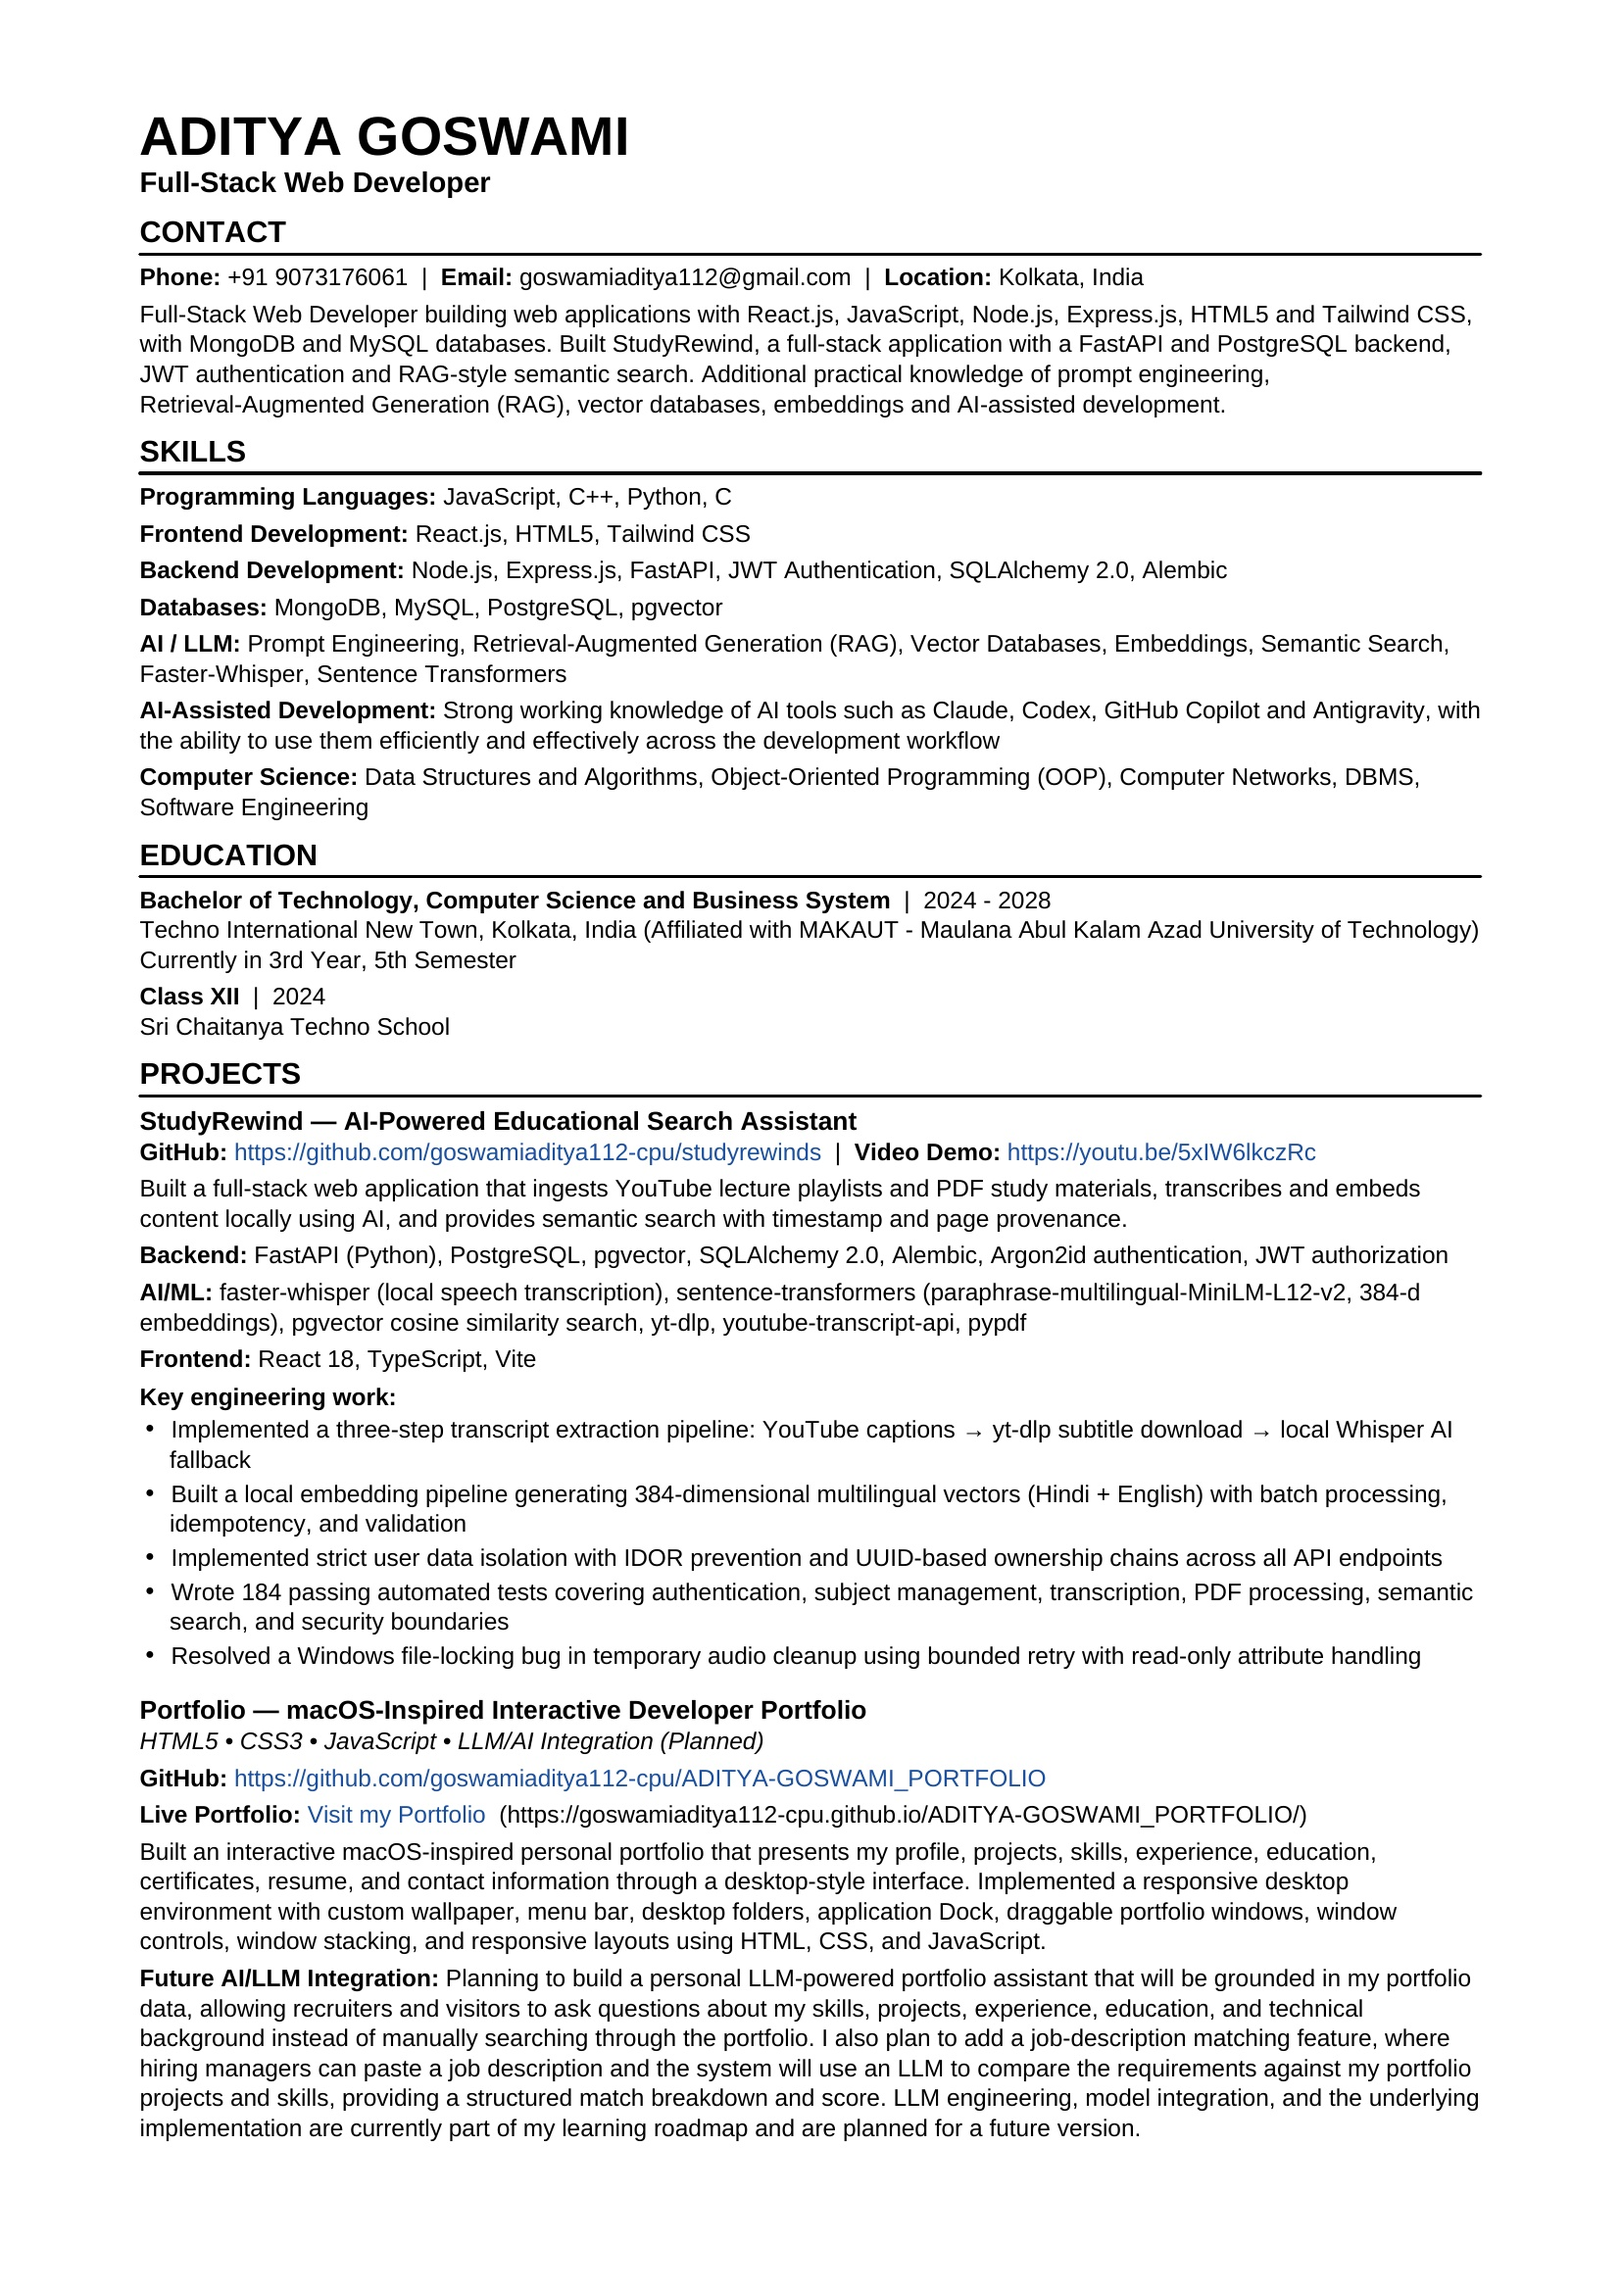
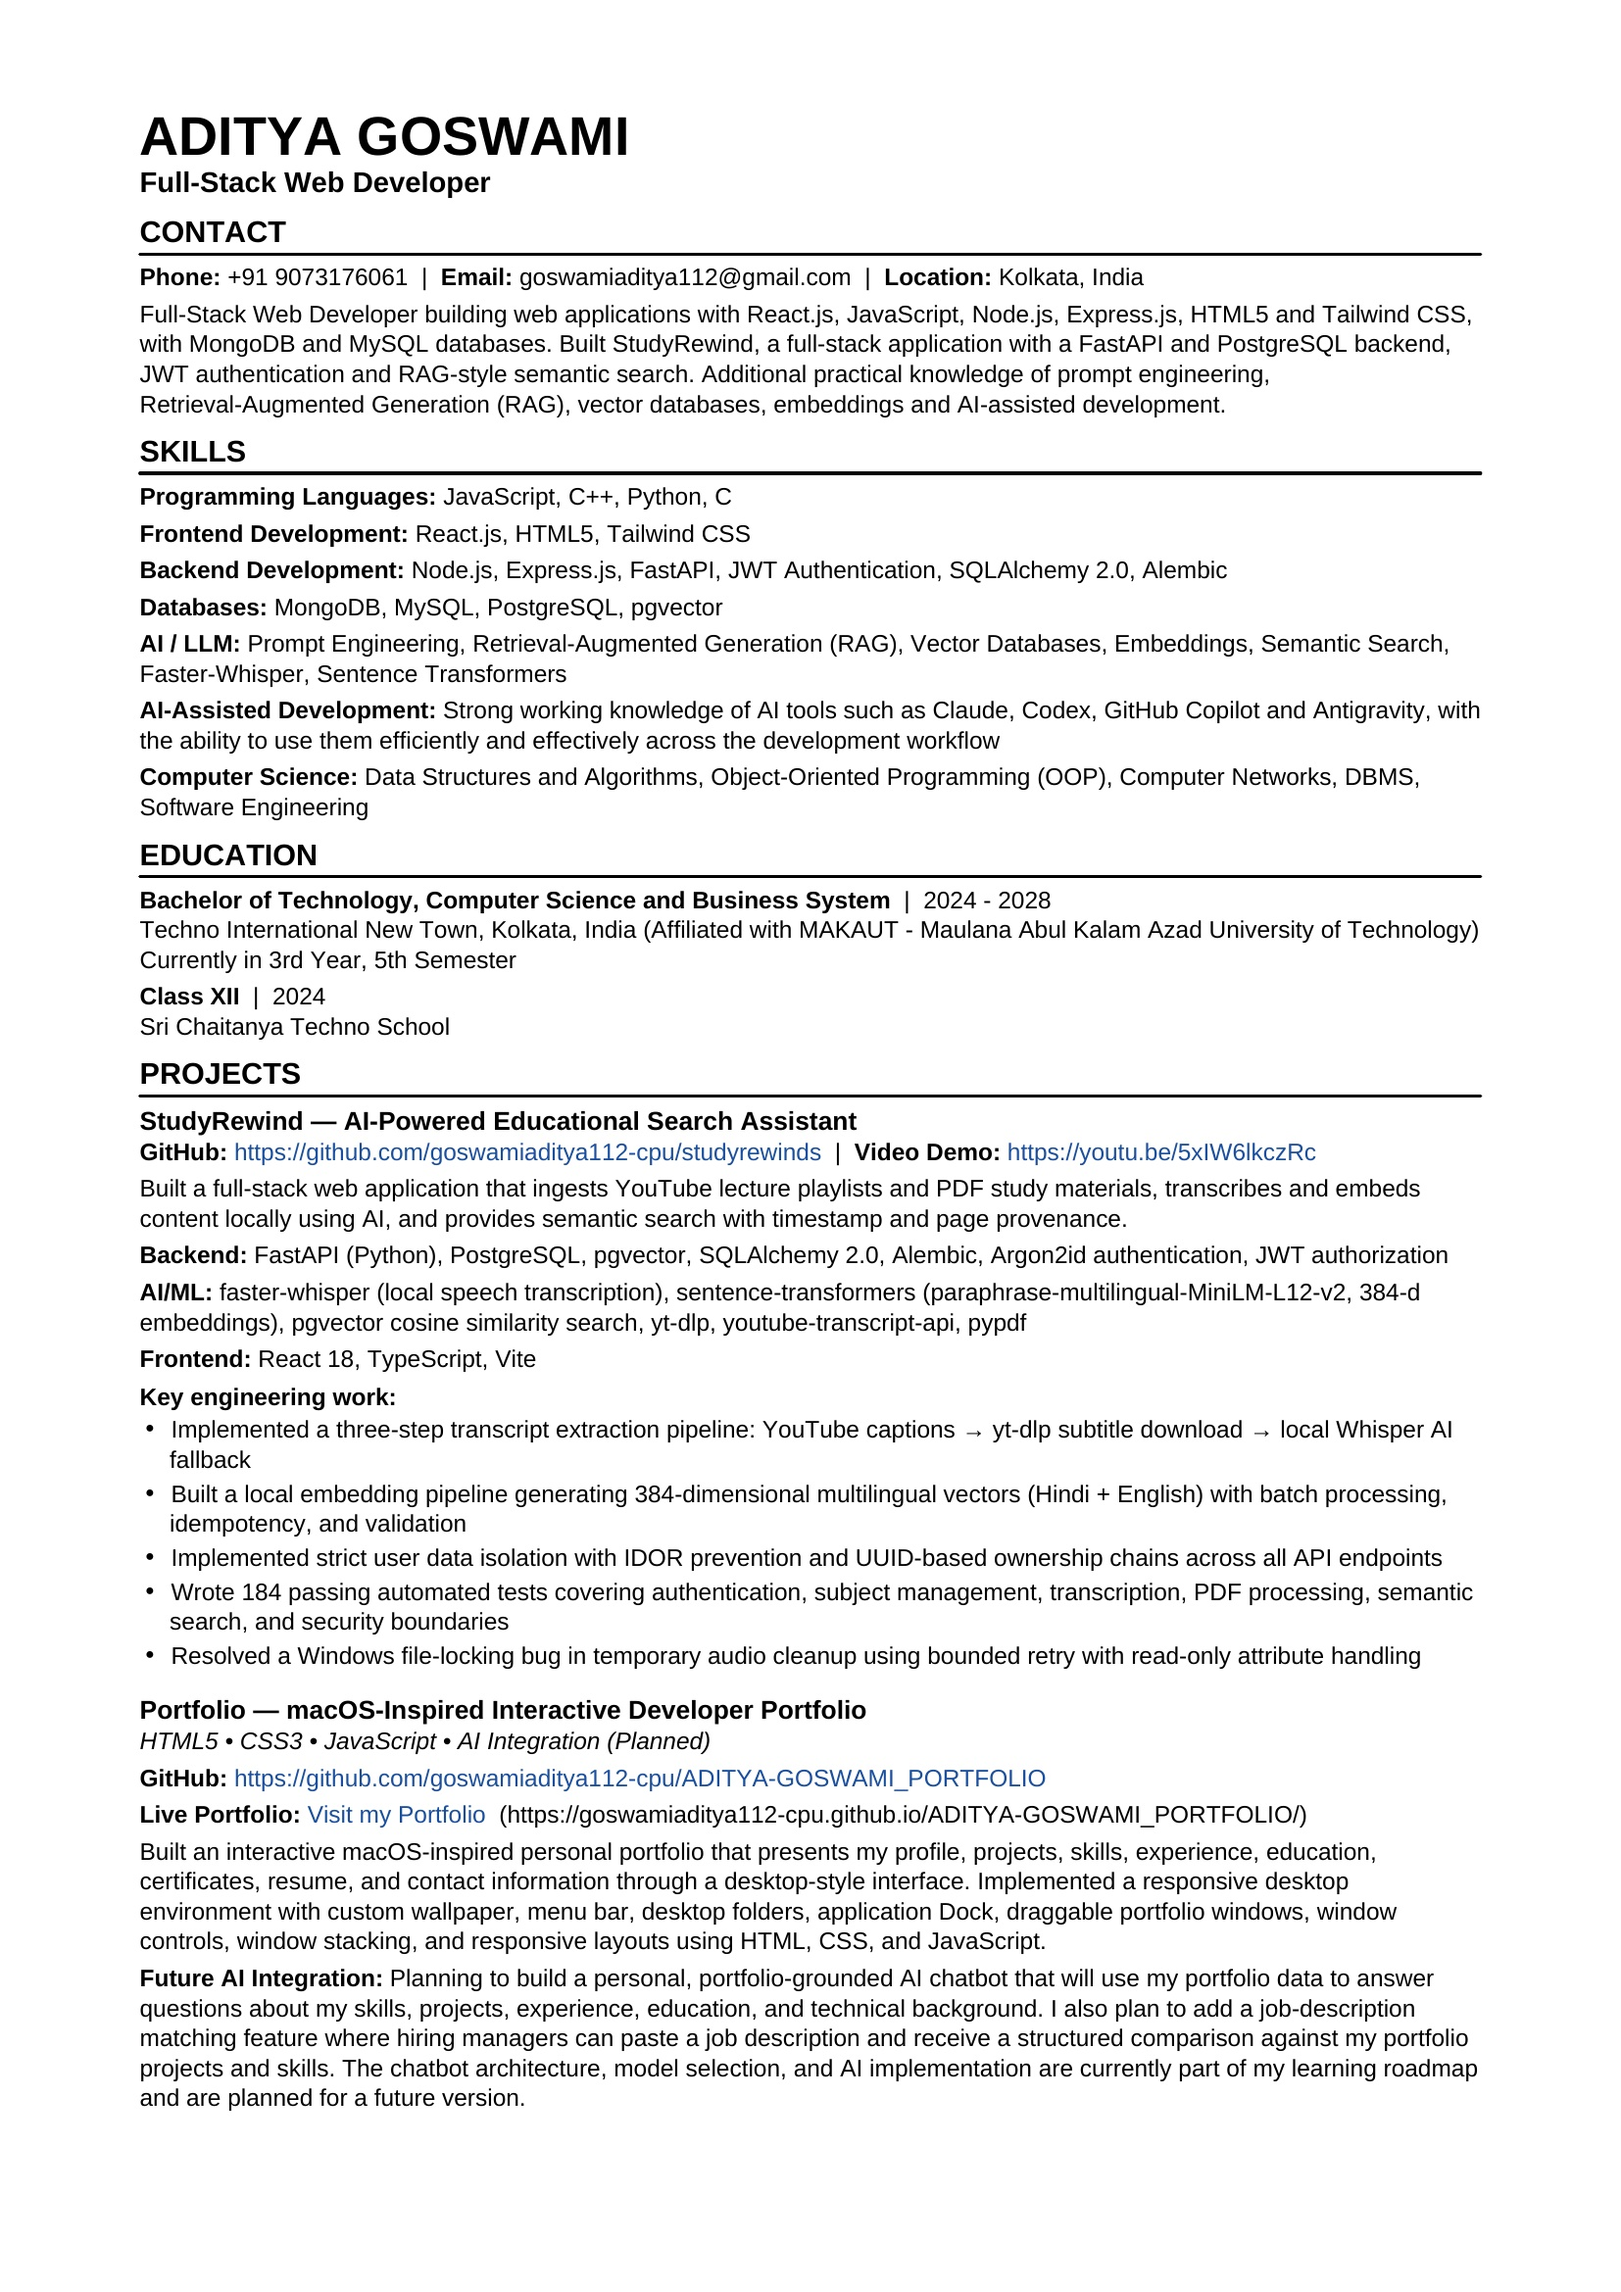
Refined AI Assistant planned feature content.

Changed region(s): [[0.0925, 0.8427, 0.8942, 0.9363], [0.2775, 0.749, 0.4625, 0.7802]]

diff --git a/index.html b/index.html
@@ -222,7 +222,7 @@
               layout
             </li>
             <li>
-              Future: A portfolio-grounded LLM assistant and job-description matching system are planned as future extensions.
+              Future AI Integration: A personal portfolio chatbot is planned to allow recruiters and visitors to ask questions about my skills, projects, education, and technical background using information from my portfolio.
             </li>
           </ol>
           <ul>
@@ -608,15 +608,16 @@ the ability to use them efficiently and effectively across the development workf
         </div>
 
         <p>
-          <strong>AI Assistant — In Progress</strong>
+          <strong>AI Assistant — Planned</strong>
         </p>
 
         <p>
           <ul>
-<li>A future AI assistant grounded in my portfolio data.</li>
-<li>Designed to answer questions about my skills, projects, education, and technical background.</li>
-<li>Planned to use LLMs and retrieval-based techniques to make portfolio information easier to explore.</li>
-            <li>Status: Currently learning and planned for a future version.</li>
+<li>🤖 A personal, portfolio-grounded AI chatbot focused specifically on my information.</li>
+<li>📚 Designed to use my portfolio data as its knowledge source.</li>
+<li>💬 Can answer questions about my skills, projects, education, experience, and technical background.</li>
+            <li>🔎 Helps recruiters and visitors explore my background without manually searching through the portfolio.</li>
+            <li>🚧 Status: Currently learning AI/LLM engineering; planned for a future version.</li>
           </ul>
         </p>
       </section>
